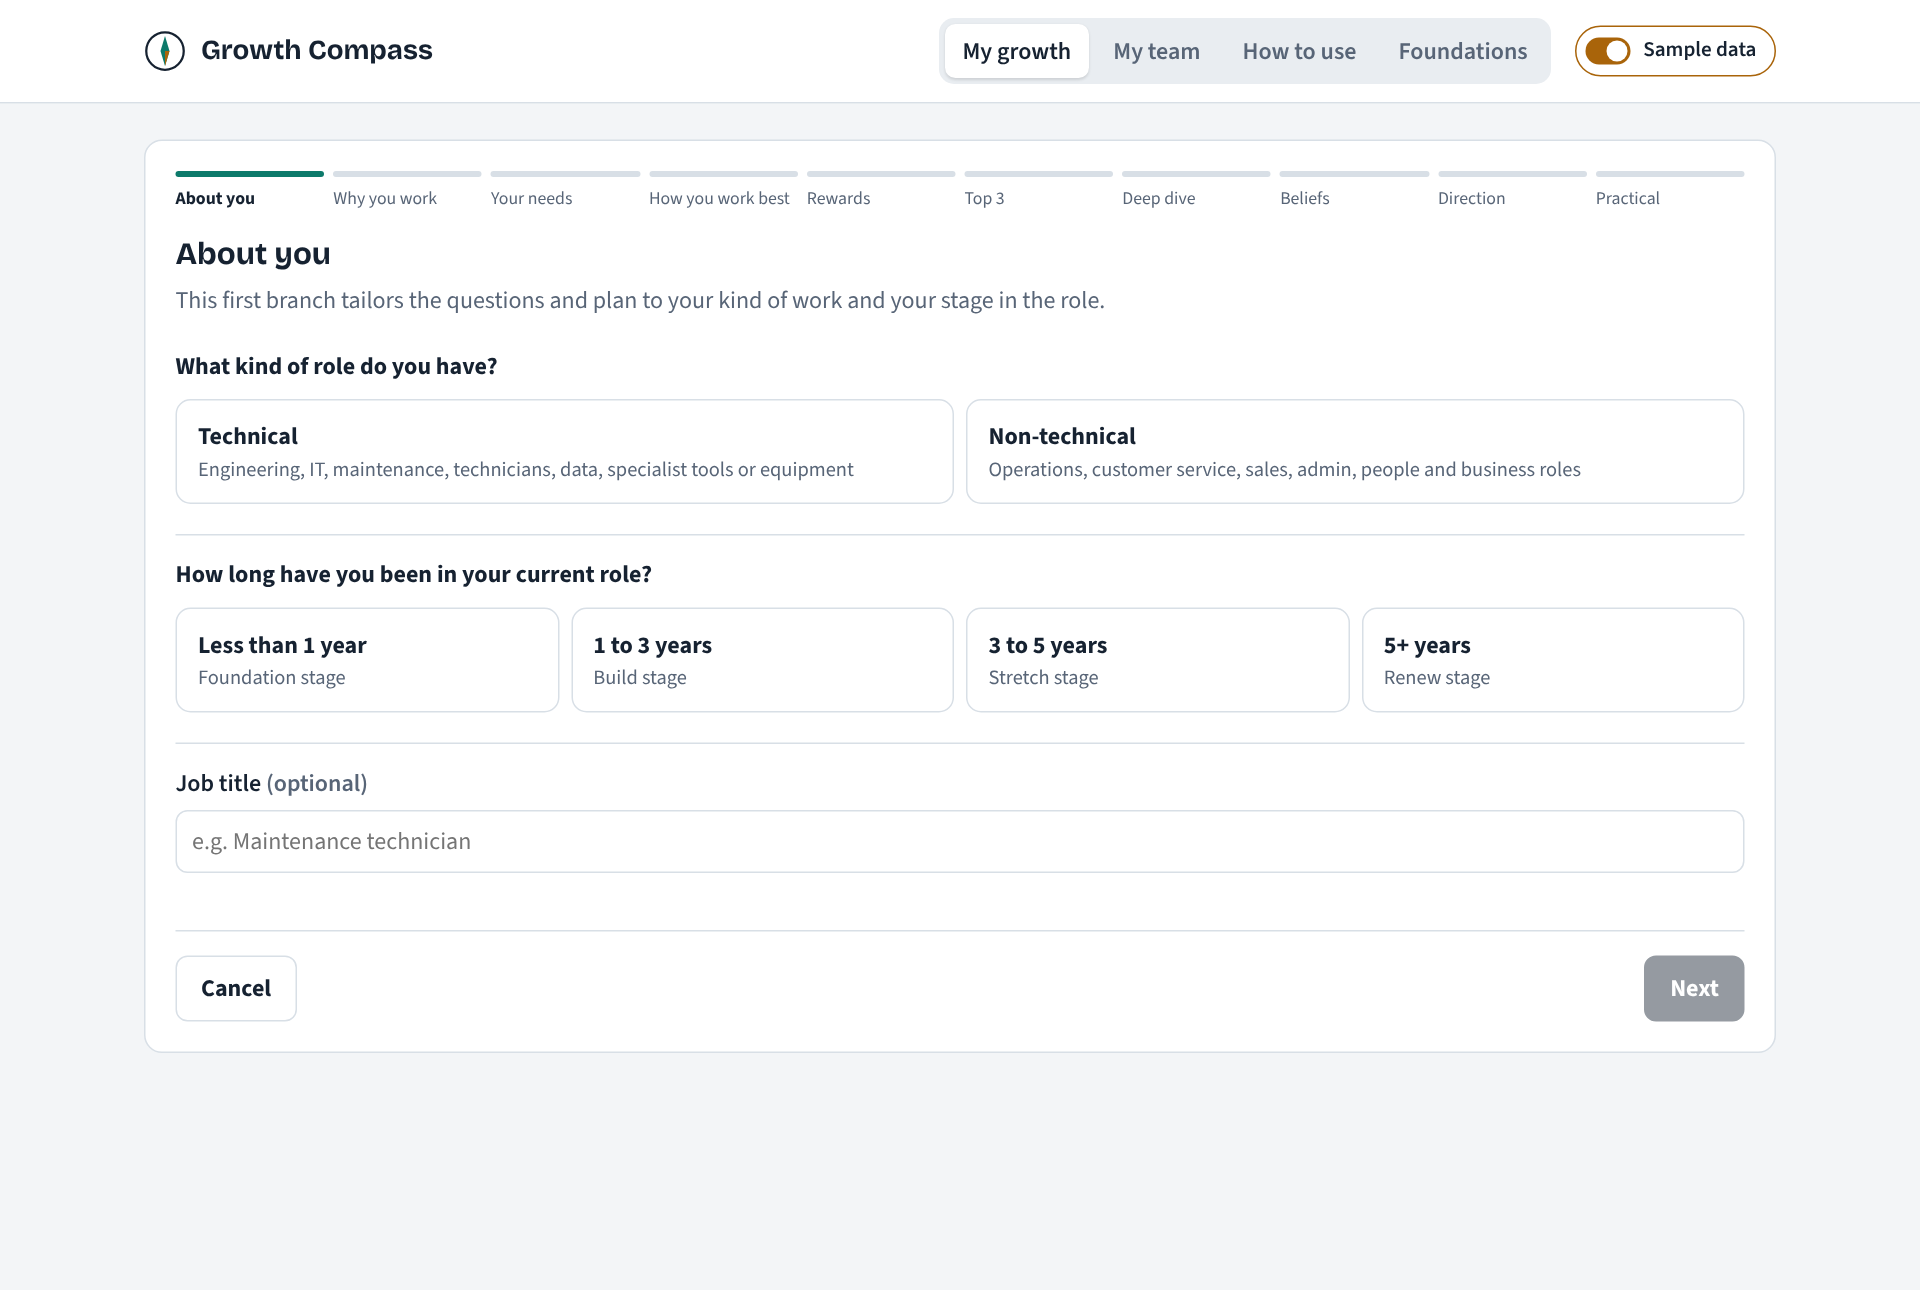
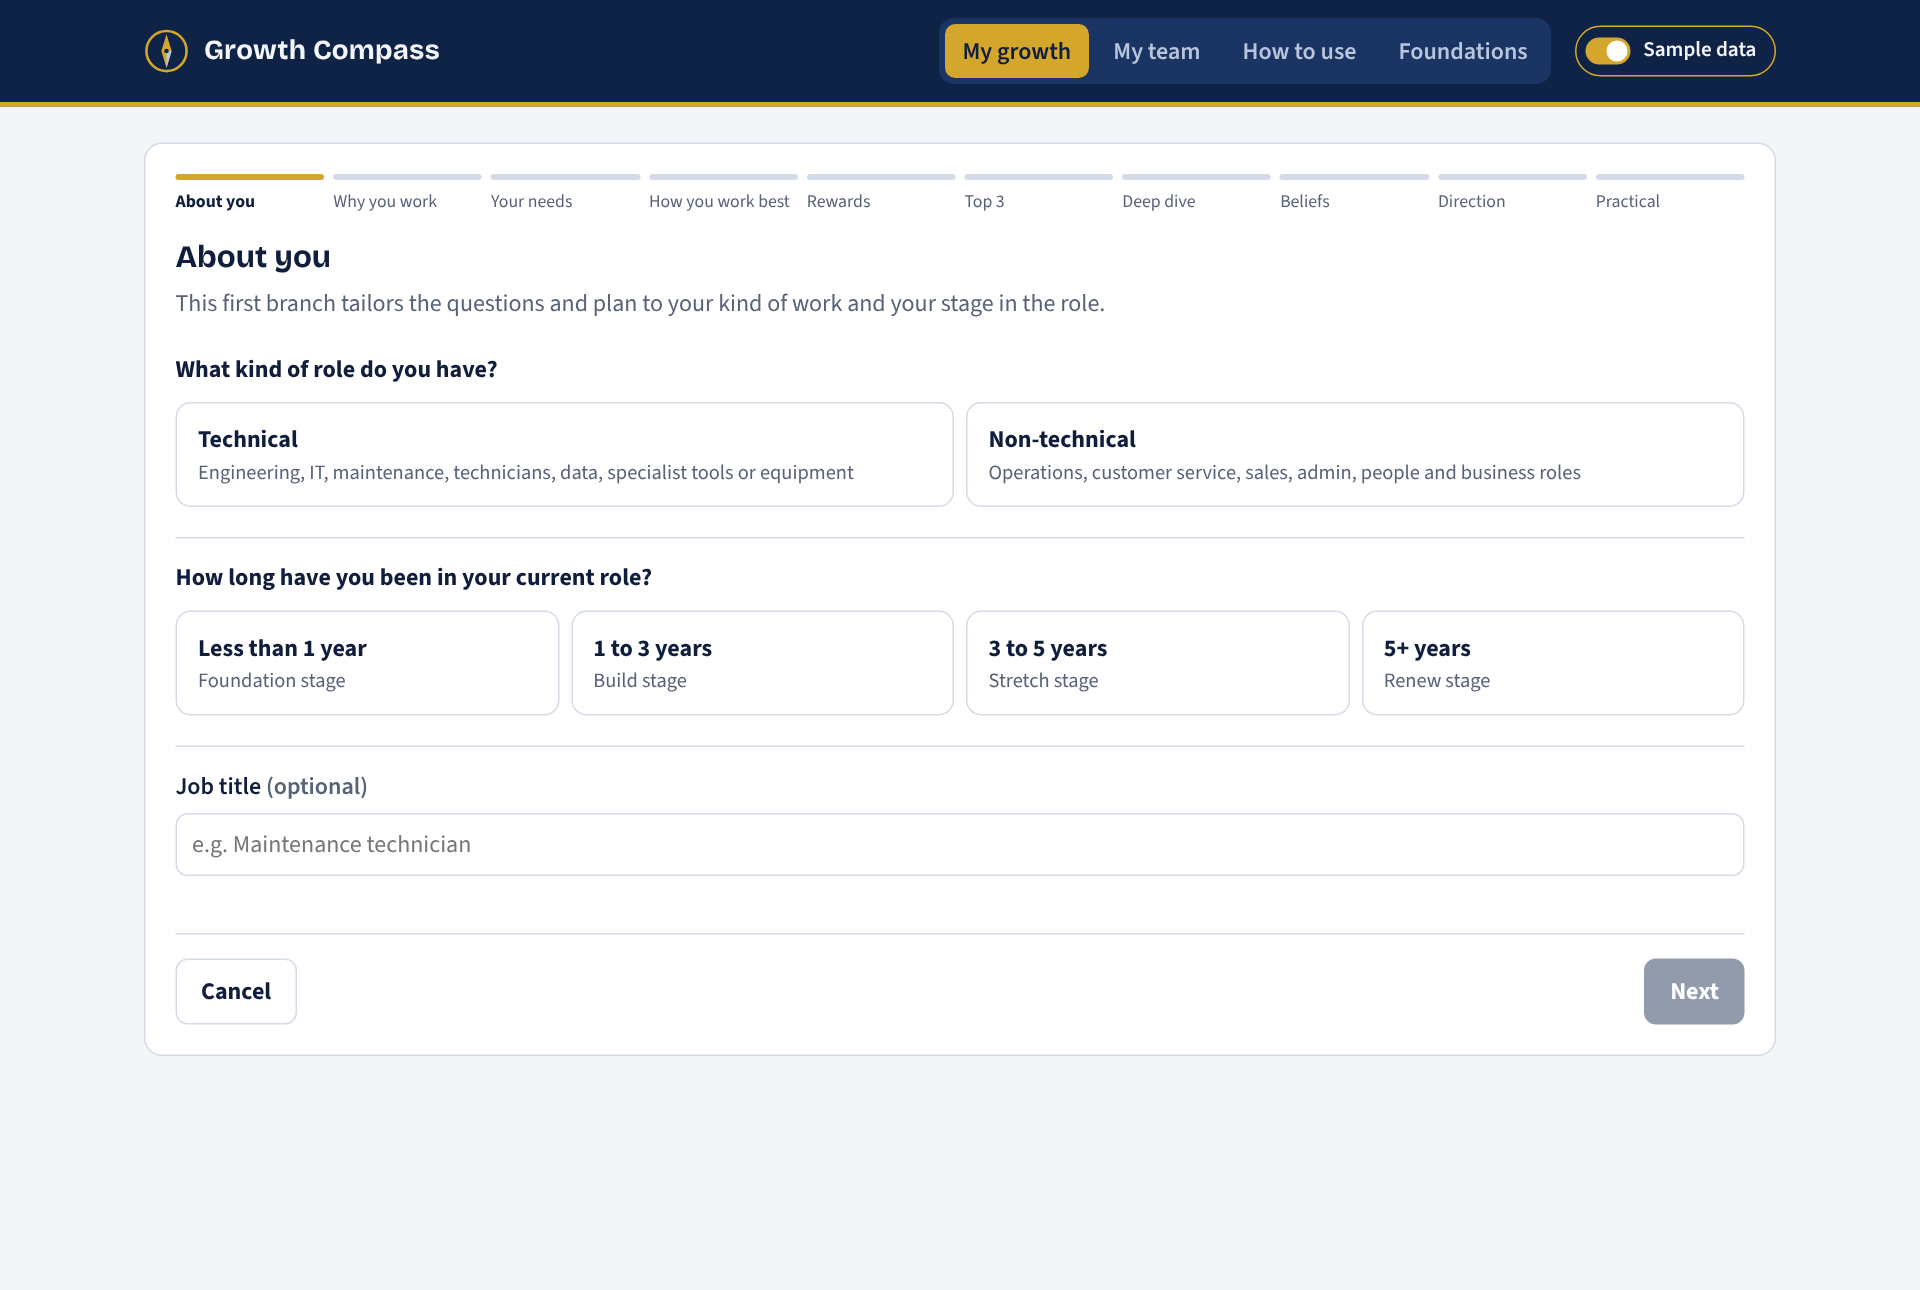
Restyle in navy and gold
Navy header and hero panels with gold accents, progress bars and
labels; intrinsic drivers in navy blue, extrinsic in gold. Matching
dark theme. Screenshots refreshed.

Claude-Session: https://claude.ai/code/session_01Uujaq66ZKBCDtqxri7RNsD

diff --git a/index.html b/index.html
@@ -4,29 +4,36 @@
 <meta charset="utf-8">
 <meta name="viewport" content="width=device-width,initial-scale=1,viewport-fit=cover">
 <meta name="description" content="Growth Compass: a research-grounded personal development app where employees drive their own growth and managers support it.">
+<meta name="theme-color" content="#0F2347">
 <style>:root{color-scheme:light;padding-top:env(safe-area-inset-top,0px);padding-bottom:env(safe-area-inset-bottom,0px)}body{margin:0}img{max-width:100%}[hidden]{display:none!important}</style>
 <title>Growth Compass</title>
 <meta name="claude:viewport-fit-sides" content="cover">
 <link rel="preconnect" href="https://fonts.googleapis.com">
 <link rel="stylesheet" href="https://fonts.googleapis.com/css2?family=Bricolage+Grotesque:opsz,wght@12..96,500;12..96,700&family=Source+Sans+3:wght@400;600;700&family=IBM+Plex+Mono:wght@500&display=swap">
 <style>
-/* Layout: app bar + three workspaces (My growth / My team / Foundations); a stepped assessment tree grounded in SDT, achievement-goal, social-cognitive and I/O work-motivation theory feeds a 70-20-10 plan */
+/* Palette: navy and gold (the owner's brand colours). Layout: app bar + workspaces (My growth / My team / Foundations); a stepped assessment tree grounded in SDT, achievement-goal, social-cognitive and I/O work-motivation theory feeds a 70-20-10 plan */
 :root{
-  --bg:#F3F5F7; --surface:#FFFFFF; --sunk:#E9EDF1; --ink:#162231; --muted:#586577; --line:#D8DFE6;
-  --in:#0D7A6B; --in-soft:#D7EFEA; --ex:#A9640A; --ex-soft:#F6E7D0;
+  --bg:#F3F5F9; --surface:#FFFFFF; --sunk:#E7ECF4; --ink:#0F1E3D; --muted:#56627A; --line:#D3DBE8;
+  --in:#1F4E9C; --in-soft:#DEE7F7; --ex:#8C6A0E; --ex-soft:#F7EDD0;
+  --navy:#0F2347; --navy-2:#1A3463; --on-navy:#F4F6FB; --on-navy-muted:#B9C5DD; --gold:#D4A72C; --gold-soft:#F7EDD0;
+  --btn-bg:#0F2347; --btn-fg:#FFFFFF;
   --ok:#1E7A3C; --warn:#A35F00; --crit:#B3261E; --focus:#2B59C3;
   --f-display:"Bricolage Grotesque", "Segoe UI", system-ui, sans-serif;
   --f-body:"Source Sans 3", "Segoe UI", system-ui, sans-serif;
   --f-mono:"IBM Plex Mono", ui-monospace, Menlo, monospace;
 }
 @media (prefers-color-scheme: dark){:root:not([data-theme="light"]){
-  --bg:#0E141B; --surface:#161F29; --sunk:#1D2834; --ink:#E5EBF1; --muted:#99A6B5; --line:#2A3644;
-  --in:#45C7B3; --in-soft:#173A36; --ex:#F0A845; --ex-soft:#3E2E17;
-  --ok:#5BC77E; --warn:#F0A845; --crit:#F2827A; --focus:#86A8FF; color-scheme:dark}}
+  --bg:#0A1328; --surface:#111D36; --sunk:#182743; --ink:#E9EEF8; --muted:#9DABC4; --line:#26385C;
+  --in:#86AAEB; --in-soft:#1B2E55; --ex:#E6BE52; --ex-soft:#3A2F12;
+  --navy:#081127; --navy-2:#13234A; --on-navy:#F4F6FB; --on-navy-muted:#A8B6D2; --gold:#E6BE52; --gold-soft:#3A2F12;
+  --btn-bg:#E6BE52; --btn-fg:#0A1328;
+  --ok:#5BC77E; --warn:#F0A845; --crit:#F2827A; --focus:#9DB8FF; color-scheme:dark}}
 :root[data-theme="dark"]{
-  --bg:#0E141B; --surface:#161F29; --sunk:#1D2834; --ink:#E5EBF1; --muted:#99A6B5; --line:#2A3644;
-  --in:#45C7B3; --in-soft:#173A36; --ex:#F0A845; --ex-soft:#3E2E17;
-  --ok:#5BC77E; --warn:#F0A845; --crit:#F2827A; --focus:#86A8FF; color-scheme:dark}
+  --bg:#0A1328; --surface:#111D36; --sunk:#182743; --ink:#E9EEF8; --muted:#9DABC4; --line:#26385C;
+  --in:#86AAEB; --in-soft:#1B2E55; --ex:#E6BE52; --ex-soft:#3A2F12;
+  --navy:#081127; --navy-2:#13234A; --on-navy:#F4F6FB; --on-navy-muted:#A8B6D2; --gold:#E6BE52; --gold-soft:#3A2F12;
+  --btn-bg:#E6BE52; --btn-fg:#0A1328;
+  --ok:#5BC77E; --warn:#F0A845; --crit:#F2827A; --focus:#9DB8FF; color-scheme:dark}
 *{box-sizing:border-box}
 body{background:var(--bg);color:var(--ink);font:16px/1.5 var(--f-body)}
 h1,h2,h3{font-family:var(--f-display);font-weight:700;line-height:1.15;text-wrap:balance;margin:0}
@@ -209,14 +216,60 @@ input[type=date]{background:var(--surface);border:1px solid var(--line);border-r
 .sugg button{border:1px dashed var(--line);background:var(--surface);border-radius:999px;padding:4px 12px;cursor:pointer;font-size:.86rem;text-align:left}
 .sugg button:hover{border-style:solid;border-color:var(--in)}
 details summary{cursor:pointer;font-weight:600;font-size:.92rem}
-.toast{position:fixed;left:50%;transform:translateX(-50%);bottom:calc(20px + env(safe-area-inset-bottom,0px));background:var(--ink);color:var(--surface);padding:8px 16px;border-radius:8px;font-weight:600;z-index:20}
+/* ---- Brand: navy and gold ---- */
+.bar{background:var(--navy);border-bottom:3px solid var(--gold);color:var(--on-navy)}
+body::before{background:var(--navy)}
+.brand{color:var(--on-navy);letter-spacing:.01em}
+.tabs{background:var(--navy-2)}
+.tab{color:var(--on-navy-muted)}
+.tab:hover{color:var(--on-navy)}
+.tab[aria-selected="true"]{background:var(--gold);color:#0F1E3D;box-shadow:none}
+.demo-tog{background:transparent;border-color:rgb(255 255 255 / .25);color:var(--on-navy-muted)}
+.demo-tog .sw{background:rgb(255 255 255 / .25)}
+.demo-tog .sw::after{background:#FFFFFF}
+.demo-tog[aria-pressed="true"]{color:var(--on-navy);border-color:var(--gold)}
+.demo-tog[aria-pressed="true"] .sw{background:var(--gold)}
+.bar :focus-visible{outline-color:var(--gold)}
+.btn{background:var(--btn-bg);border-color:var(--btn-bg);color:var(--btn-fg)}
+.btn.ghost{background:transparent;color:var(--ink);border-color:var(--line)}
+.btn.ghost:hover{border-color:var(--gold)}
+.eyebrow{color:var(--ex)}
+h1,h2{color:var(--ink)}
+.prog{height:8px}
+.prog b{background:linear-gradient(90deg,var(--gold),var(--ex))}
+.stat .v{color:var(--in)}
+.stat{border-top:3px solid var(--gold)}
+.kirk .v{color:var(--in)}
+.stepper span.on{background:var(--navy-2);color:var(--on-navy)}
+.scale input:checked+span{background:var(--btn-bg);color:var(--btn-fg);border-color:var(--btn-bg)}
+.opt input:checked+span{border-color:var(--gold);background:var(--gold-soft);box-shadow:inset 0 0 0 1px var(--gold)}
+.filters button[aria-pressed="true"],.personas button[aria-pressed="true"]{background:var(--btn-bg);color:var(--btn-fg);border-color:var(--btn-bg)}
+.step.cur i{background:var(--gold)} .step.done i{background:var(--in)}
+.branch{border-left-color:var(--gold)}
+.demo-note{border-color:var(--gold);background:var(--gold-soft)}
+.sugg button:hover{border-color:var(--gold)}
+.move input,.act input{accent-color:var(--in)}
+/* Hero panels: navy with gold */
+.intro,.own{background:var(--navy);border-color:var(--navy);color:var(--on-navy)}
+.intro h1,.own h2{color:var(--on-navy)}
+.intro .eyebrow,.own .eyebrow{color:var(--gold)}
+.intro .muted,.own .muted{color:var(--on-navy-muted)}
+.intro .btn{background:var(--gold);border-color:var(--gold);color:#0F1E3D}
+.intro .btn.ghost{background:transparent;color:var(--on-navy);border-color:rgb(255 255 255 / .35)}
+.intro a{color:var(--gold)}
+.intro .tree .node{background:var(--navy-2);border-color:rgb(255 255 255 / .12);color:var(--on-navy)}
+.intro .tree .n{color:var(--gold)}
+.own .kirk>div{background:var(--navy-2);border-color:rgb(255 255 255 / .12)}
+.own .kirk .v{color:var(--gold)}
+.own b{color:var(--gold)}
+.toast{position:fixed;left:50%;transform:translateX(-50%);bottom:calc(20px + env(safe-area-inset-bottom,0px));background:var(--navy);color:var(--on-navy);border:1px solid var(--gold);padding:8px 16px;border-radius:8px;font-weight:600;z-index:20}
 </style>
 </head>
 <body>
 <header class="bar">
   <div class="wrap">
     <div class="brand">
-      <svg width="28" height="28" viewBox="0 0 28 28" aria-hidden="true"><circle cx="14" cy="14" r="12.5" fill="none" stroke="var(--ink)" stroke-width="1.5"/><path d="M14 4 L17 14 L14 24 L11 14 Z" fill="var(--in)"/><path d="M14 14 L17 14 L14 24 Z" fill="var(--ex)"/></svg>
+      <svg width="30" height="30" viewBox="0 0 28 28" aria-hidden="true"><circle cx="14" cy="14" r="12.5" fill="none" stroke="var(--gold)" stroke-width="1.6"/><path d="M14 3.5 L17.2 14 L14 24.5 L10.8 14 Z" fill="var(--gold)"/><path d="M14 14 L17.2 14 L14 24.5 Z" fill="var(--on-navy-muted)"/><circle cx="14" cy="14" r="1.4" fill="var(--navy)"/></svg>
       Growth Compass
     </div>
     <nav class="tabs" role="tablist" aria-label="Workspace">
@@ -1092,7 +1145,7 @@ function renderOwnership(doc){
     : P.inPct - P.exPct >= 15
     ? "You already value the work itself. Be deliberate about it: treat this job as a place to collect skills you'll keep for the rest of your career."
     : "Treat this job as two things: a way to earn, and a place to learn. The earning stops when you leave. The learning doesn't.";
-  return `<section class="card stack" style="gap:10px">
+  return `<section class="card stack own" style="gap:10px">
     <div><span class="eyebrow">Personal development is personal</span><h2>This is yours</h2></div>
     <p class="small">You drive your development. Your manager guides, supports and opens doors, but doesn't decide where you go next. The skills you build belong to you, wherever you work.</p>
     <div class="kirk">
